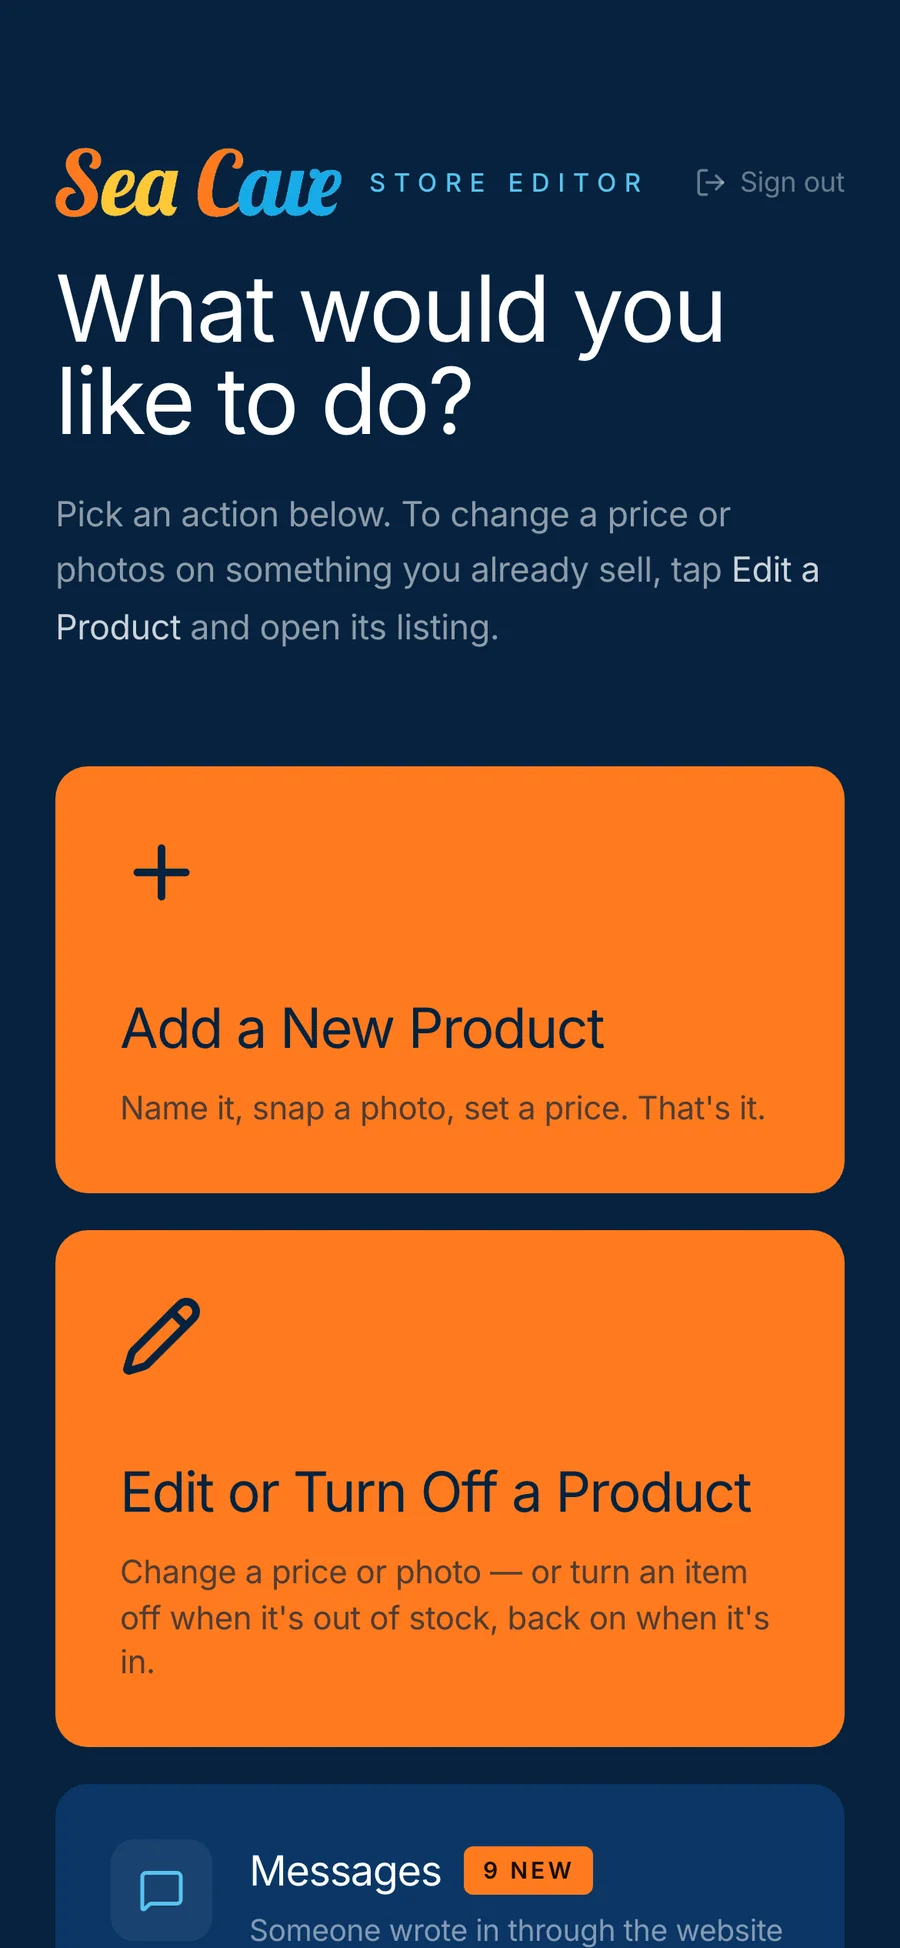
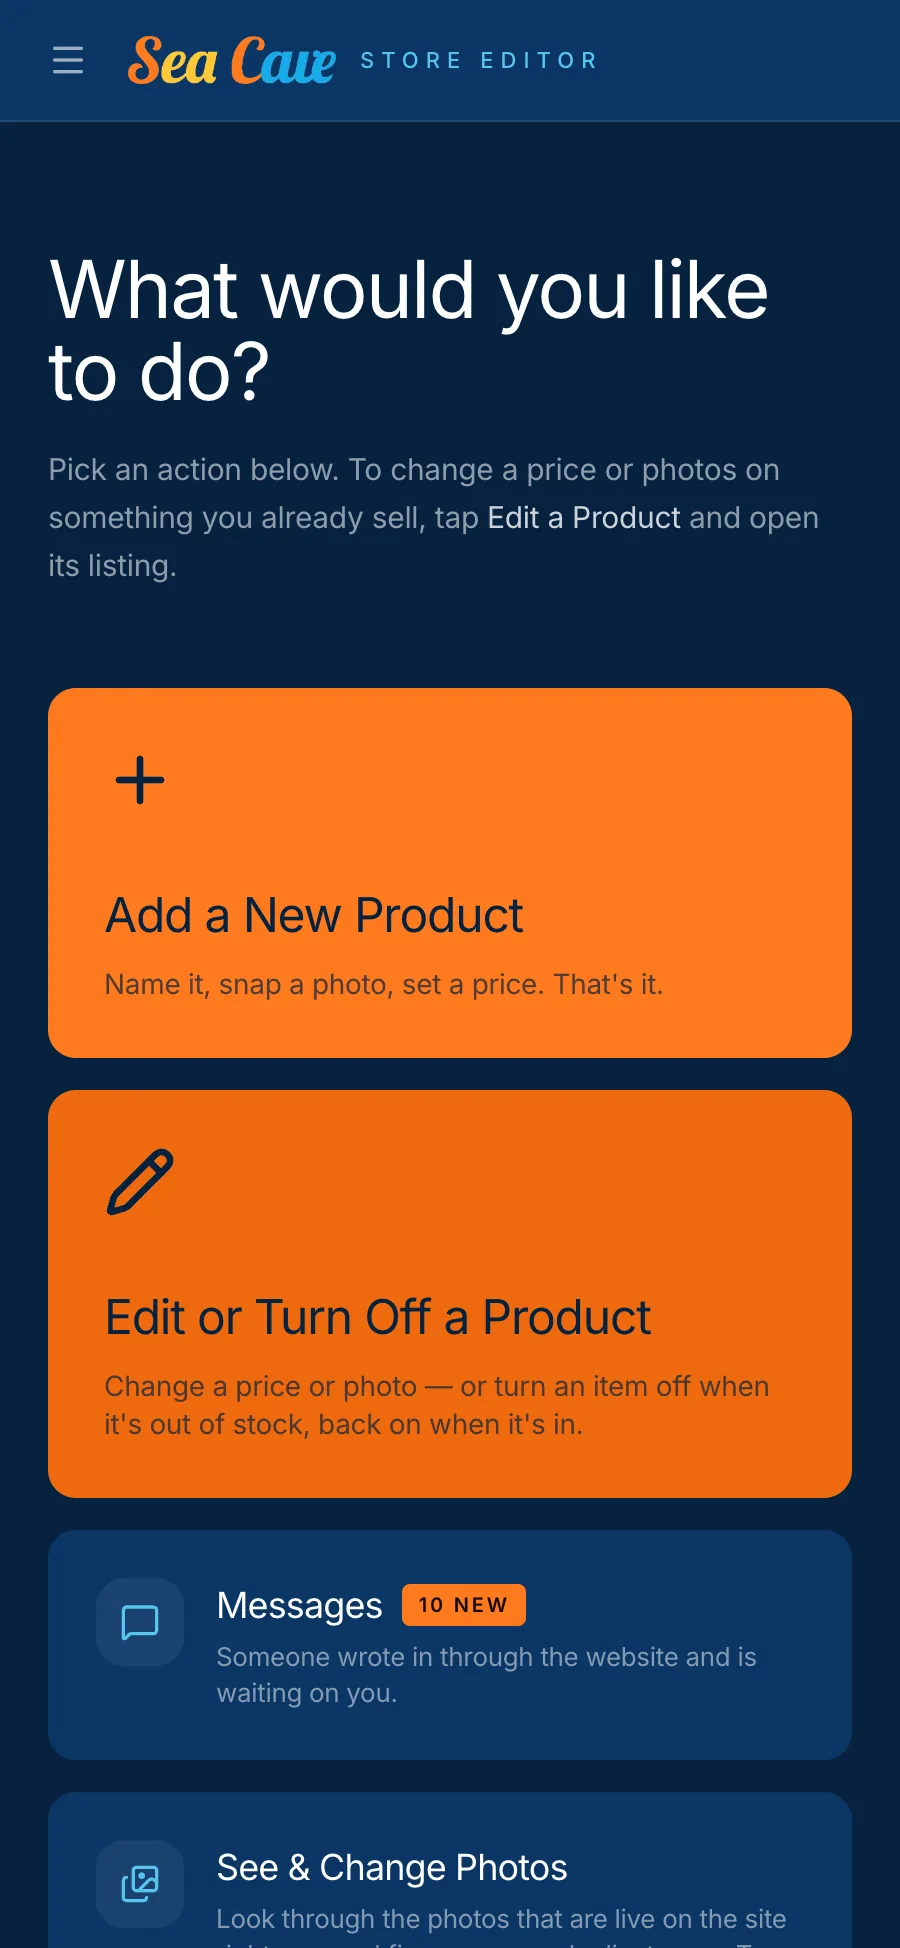
feat: the editor section shows the editor that exists now
Sea Cave's store editor stopped being hub-and-spoke today and got a rail, so
the three captures here were of a tool that no longer exists. That is the
quiet way a page about somebody's current work goes stale — nothing breaks,
it just stops being true.

Re-shot all three against the live build and added a fourth: the menu, open,
which is the thing that changed. Four beats needed a grid that holds four, so
the row is 2-up from sm and 4-up from lg instead of 3-up from md.

Real counts, as before — 969 products, 884 of them on the site the day these
were taken. No messages screen in the set: that page is customer names and
what they wrote.

slop-guard 100 on the new copy. axe 0 on /, 390px overflow 0 on / and
/work/seacave, no broken images on either.

diff --git a/src/components/sections/Editor.tsx b/src/components/sections/Editor.tsx
@@ -6,8 +6,13 @@ import SectionHeading from '@/components/sections/SectionHeading';
  * Editor — the back of the site, which is the part nobody selling a website
  * ever shows you and the part you actually live in.
  *
- * All three are real screens of Sea Cave's store editor, captured from the
- * live build. The product counts on them are that shop's real counts.
+ * All four are real screens of Sea Cave's store editor, captured from the
+ * live build. The product counts on them are that shop's real counts — 969
+ * items, 884 of them on the site the day these were taken.
+ *
+ * Re-shot 2026-09-22, when that editor stopped being hub-and-spoke and got a
+ * rail. The old captures showed a tool that no longer exists, which is the
+ * quiet way a page about somebody's current work goes stale.
  *
  * They are shown in a plain bezel rather than the photoreal PhoneFrame render:
  * that component takes the 1127x2210 composites the Envato smart object
@@ -21,6 +26,12 @@ const SCREENS = [
     title: 'Pick what you want to do',
     body: 'Add a product, or change one you already sell. Two buttons, and nothing to learn first.',
     alt: "Sea Cave's store editor: add a new product, or edit and turn one off",
+  },
+  {
+    src: '/images/case-studies/seacave/manage-menu.webp',
+    title: 'Everything is one tap away',
+    body: 'The menu lists every screen and marks the one you are on. Nothing is buried two pages deep.',
+    alt: "Sea Cave's store editor menu, open, with every screen listed and the current one marked",
   },
   {
     src: '/images/case-studies/seacave/manage-toggle.webp',
@@ -52,7 +63,7 @@ export default function Editor() {
           did not scope at the start, I adjust the editor so that you can.
         </p>
 
-        <ul className="mt-12 grid gap-12 md:mt-16 md:grid-cols-3 md:gap-8">
+        <ul className="mt-12 grid gap-12 sm:grid-cols-2 md:mt-16 md:gap-8 lg:grid-cols-4">
           {SCREENS.map((screen, i) => (
             <li key={screen.title}>
               <AnimateIn delay={i * 0.06}>
@@ -63,7 +74,7 @@ export default function Editor() {
                         src={screen.src}
                         alt={screen.alt}
                         fill
-                        sizes="(min-width: 768px) 280px, 80vw"
+                        sizes="(min-width: 1024px) 260px, (min-width: 640px) 44vw, 80vw"
                         className="object-cover object-top"
                       />
                     </div>
